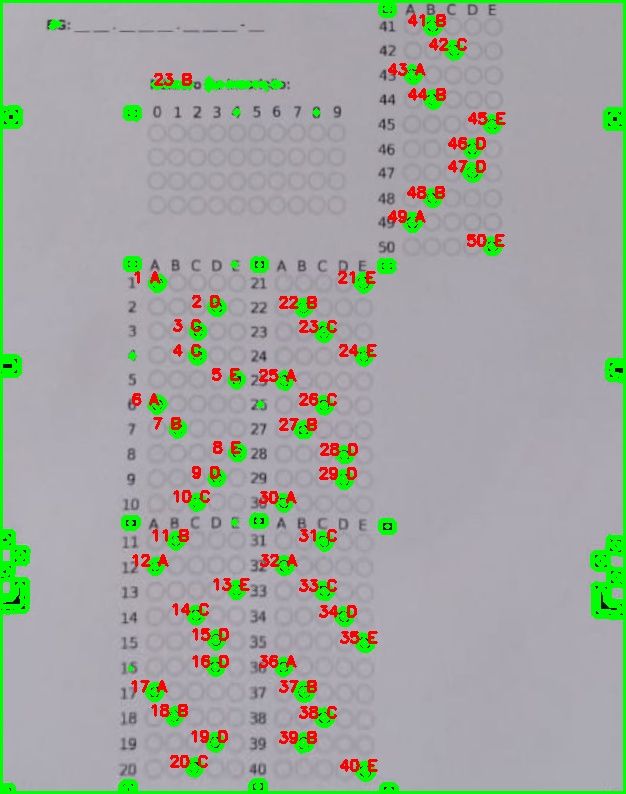
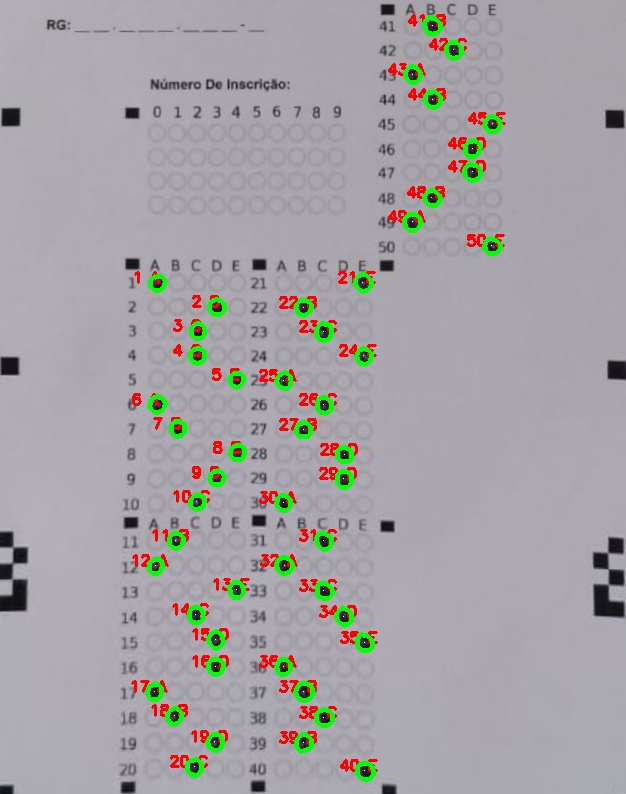
Melhorando contornos e janela
Adicionado o botão Ajuda e Sobre;
TextBox apresenta mensagens e erros;
Logo do cursinho adicionado;
Botão Parar removido

diff --git a/main.py b/main.py
@@ -14,12 +14,18 @@ from tkinter import messagebox
 from tkinter.ttk import Progressbar
 from tkinter import scrolledtext
 from tkinter import *
+import tkinter as tk
+from tkinter import Menu
 
 #Declarando algumas variáveis globais
 MAX_MATCHES = 5000
 GOOD_MATCH_PERCENT = 0.05
 gabaritoPath = ""
 janela = Tk()
+caixaTexto = None
+pause = False
+btParar = None
+nomeGabarito = []
 
 
 def alignImages(im1, im2):
@@ -45,8 +51,8 @@ def alignImages(im1, im2):
   matches = matches[:numGoodMatches]
 
   # Draw top matches
-  #imMatches = cv2.drawMatches(im1, keypoints1, im2, keypoints2, matches, None)
-  #cv2.imwrite("matches.jpg", imMatches)
+  # imMatches = cv2.drawMatches(im1, keypoints1, im2, keypoints2, matches, None)
+  # cv2.imwrite("matches.jpg", imMatches)
   
   # Extract location of good matches
   points1 = np.zeros((len(matches), 2), dtype=np.float32)
@@ -84,12 +90,11 @@ def getAnswer(contours, imReg):
   listNumbers = []
   RA = ''
 
-  #cv2.drawContours(imReg, contours, -1, (0,255,0), 3)
+
   #Take the central pixel of the contours and compare to the lists
   for c in contours:
     #Only takes the central point of contours who have 100<Area<350
-    if 50<cv2.contourArea(c)<350:
-
+    if 100<cv2.contourArea(c)<300:
       # calculate moments for each contour
       M = cv2.moments(c)
  
@@ -108,6 +113,7 @@ def getAnswer(contours, imReg):
               cv2.circle(imReg, (cX, cY), 3, (255, 255, 255), -15)
               cv2.putText(imReg, str(x), (cX - 25, cY),cv2.FONT_HERSHEY_SIMPLEX, 0.5, (0, 0, 255), 2)
               controladorRA = True
+              cv2.drawContours(imReg, c, -1, (0,255,0), 3)
 
       #Verifica as questões
       if (controladorRA == False):
@@ -137,6 +143,7 @@ def getAnswer(contours, imReg):
                 listRet.append(letra)
                 listNumbers.append(numero)
                 cv2.putText(imReg, numero+' '+letra, (cX - 25, cY),cv2.FONT_HERSHEY_SIMPLEX, 0.5, (0, 0, 255), 2)
+                cv2.drawContours(imReg, c, -1, (0,255,0), 3)
 
  
   #Ordena as listas que contem os numeros e as letras
@@ -199,6 +206,10 @@ def compareTemplate(test, template):
 
 #Função main principal
 def iniciar():
+  #Limpa a caixa de texto
+  caixaTexto.delete(1.0,tk.END)
+  pause = False
+
   #Desabilita o botao Iniciar
   btIniciar['state'] = 'disable'
 
@@ -212,9 +223,8 @@ def iniciar():
   imReference2 = cv2.imread(refFilename, cv2.IMREAD_COLOR)
 
   
-  if (True):
+  try:
     # Utiliza a imagem que o usuário selecionou.
-    print(gabaritoPath)
     im = cv2.imread(gabaritoPath, cv2.IMREAD_COLOR)
     
     #Alinha a imagem do gabarito com a imagem base
@@ -249,7 +259,13 @@ def iniciar():
     ctd = 1
     #Varre todos os arquivos encontrados na pasta ProvasParaCorrigir
     for f in files:
-      if(True):
+      while (pause):
+        aux = 1
+        if i:
+          caixaTexto.insert(tk.INSERT,'Programa pausado!\n','error')
+          aux = 0
+
+      try:
         #Verifica se o arquivo realmente existe, e caso não seja uma imagem
         #informa o erro ao usuario e continua corrigindo as demais provas
         fh = open("ProvasParaCorrigir/"+f, 'r')
@@ -258,14 +274,14 @@ def iniciar():
         #Lê a prova
         imReg, h = alignImages(im, imReference)
         imReg, h = alignImages(imReg, imReference2)
+
         #Aplica o blur para remover os ruidos e encontra os contornos da prova
         blurred = cv2.pyrMeanShiftFiltering(imReg,10,100)
         gray = cv2.cvtColor(blurred,cv2.COLOR_BGR2GRAY)
         threshold = cv2.adaptiveThreshold(gray,255,cv2.ADAPTIVE_THRESH_GAUSSIAN_C,cv2.THRESH_BINARY,15,8)
         contours,_ = cv2.findContours(threshold,cv2.RETR_LIST,cv2.CHAIN_APPROX_NONE)
-        cv2.drawContours(imReg, contours, -1, (0,255,0), 3)
-        # cv2.imshow("teste",imReg)
-        # cv2.waitKey(0)
+        # cv2.drawContours(imReg, contours, -1, (0,255,0), 3)
+
 
         #Retorna a lista com as letras assinaladas pelo aluno da prova
         prova, RA = getAnswer(contours, imReg)
@@ -312,16 +328,21 @@ def iniciar():
         row += 2  
 
         #Atualiza os valores da ProgressBar
+        caixaTexto.insert(tk.INSERT,'Corrigido '+f+"\n")
+        caixaTexto.see(tk.END)
         progressBar['value'] = (ctd*100)/len(files)
         janela.update_idletasks()
-      #except:
-        # progressBar['value'] = (ctd*100)/len(files)
-        # janela.update_idletasks()
+      except:
+        caixaTexto.insert(tk.INSERT,'Erro ao abrir o arquivo '+f+". Verifique a extensão\n",'error')
+        progressBar['value'] = (ctd*100)/len(files)
+        janela.update_idletasks()
       ctd+=1 
     workbook.close()
+    caixaTexto.insert(tk.INSERT,'Todas as provas foram corrigidas!\n','done')
     
-  #except:
-    #print("O arquivo fornecido não foi encontrado. Verifique se o mesmo existe e se está na extensão correta!")
+  except:
+    caixaTexto.insert(tk.INSERT,'Não foi possível carregar o gabarito selecionado! Verifique a extensão '
+    'e integridade do arquivo!\n','error')
   btIniciar['state'] = 'normal'
 
 
@@ -333,15 +354,54 @@ def getGabaritoPath ():
       (("jpeg files","*.jpg"),("all files","*.*")))
 
   global gabaritoPath 
+  global nomeGabarito
   gabaritoPath = str(janela.filename)
   btIniciar['state'] = 'normal'
-  lblGabarito['text'] = 'Gabarito selecionado:\n'+gabaritoPath
+  i = len(gabaritoPath)-1
+  while (gabaritoPath[i] != '\'' and gabaritoPath[i] != '/'):
+    nomeGabarito.append(gabaritoPath[i])
+    i -= 1
+  nomeGabarito = nomeGabarito[::-1]
+  lblGabarito['text'] = 'Gabarito selecionado:\n'+''.join(nomeGabarito)
+
+def pausar ():
+  global pause
+  if pause:
+    pause = False
+    btParar['text'] = 'Pausar'
+  else:
+    pause = True
+    btParar['text'] = 'Retomar'
+
+def ajuda ():
+  caixaTexto.delete(1.0,tk.END)
+  caixaTexto.insert(tk.INSERT,'Ao iniciar o programa pela primeira vez será criado duas pastas, a "ProvasParaCorrigir" e '
+                    '"ProvasCorrigidas". Dentro da pasta ProvasParaCorrigir você deverá inserir todas as fotos das provas '
+                    'que você deseja corrigir. Vale ressaltar que embora o programa funcione com fotos tiradas pelo celular, '
+                    'dependendo de como a mesma seja tirada, da iluminação, angulação e qualidade da foto, o programa '
+                    'pode ter erros na hora da correção. Escanear as provas é a forma mais segura de fazer a correção!\n'
+                    'Após abrir a janela principal, aperte o botão "Selecionar Gabarito" para selecionar a imagem que será '
+                    'utilizada como base para a correção das demais. Os mesmos princípios em relação a qualidade da imagem '
+                    'citados a cima valem para esta foto.\n'
+                    'Com o gabarito selecionado basta apertar no botão "Iniciar" para começar a correção! Eventuais erros serão '
+                    'informados nesta caixa de texto.\n'
+                    'Ao finalizar a correção, será criado na pasta "ProvasCorrigidas" uma foto de cada prova corrigida e como '
+                    'o programa as corrigiu de forma a facilitar identificação de erros de correção. Também será criado um arquivo '
+                    'Excel com os resultados de cada prova!\n')
+  caixaTexto.insert(tk.INSERT,'APROVEITE!! =)','done')
+
+def sobre ():
+  caixaTexto.delete(1.0,tk.END)
+  caixaTexto.insert(tk.INSERT,'Este programa foi criado sem fins comerciais com a finalidade de colaborar com a correção das '
+                    'provas do cursinho Principia da Unesp Bauru.\n\n')
+  caixaTexto.insert(tk.INSERT,'Criado pela equipe Beta do Projetos RAS - IEEE - Unesp Bauru:\n Pedro Caldato\n Leonardo Moreno\n Bruno Yudy\n \n'
+                    'Com a supervisão de:\n Vitor Vecina\n','done')
 
 
 ##############################################################################################################################
 
 #definindo a janela principal
-janela.geometry("800x600")
+janela.geometry("675x600")
 janela["bg"]= "gray"
 janela.title("Corretor de gabarito")
 janela.resizable(0,0)
@@ -357,23 +417,37 @@ if (not os.path.isdir('./ProvasCorrigidas')):
 
 
 #Definindo os botões
-btGabarito=Button(janela, width=15, height=4, text="Selecione o\n gabarito", command=getGabaritoPath,)
+btGabarito=Button(janela, width=15, height=4, text="Selecinar\n Gabarito", command=getGabaritoPath,)
 btGabarito.place(x=50, y=50)
 
 lblGabarito = Label(janela, text="Gabarito selecionado:", font=("Arial Bold", 10),bg='gray')
-lblGabarito.place(x=50, y=140)
+lblGabarito.place(x=250, y=70)
 
-btIniciar=Button(janela, width=10, height=3, text="Iniciar", command=iniciar, state='disable')
-btIniciar.place(x=500, y=50)
+btIniciar=Button(janela, width=15, height=4, text="Iniciar", command=iniciar, state='disable')
+btIniciar.place(x=450, y=50)
 
-btParar=Button(janela, width=10, height=3, text="Parar")
-btParar.place(x=500, y=150)
+# btParar=Button(janela, width=15, height=4, text="Parar", command=pausar)
+# btParar.place(x=450, y=50)
 
-progressBar = Progressbar(janela, length=550)
-progressBar.place(x=50, y= 250)
+progressBar = Progressbar(janela, length=547)
+progressBar.place(x=50, y= 200)
 
-caixaTexto = scrolledtext.ScrolledText(janela,width=68,height=10)
-caixaTexto.place(x=50, y= 300)
+caixaTexto = scrolledtext.ScrolledText(janela,width=66,height=10)
+caixaTexto.place(x=50, y= 250)
+caixaTexto.tag_config('error', foreground='red')
+caixaTexto.tag_config('done', foreground='green')
+
+menu = Menu(janela)
+menu.add_command(label='Ajuda', command=ajuda)
+menu.add_command(label='Sobre', command=sobre)
+janela.config(menu=menu)
+
+canvas = Canvas(janela, width = 365, height = 138)      
+canvas.pack()      
+img = PhotoImage(file="principia.png")      
+canvas.create_image(0,0, anchor=tk.NW, image=img)      
+canvas.place(x=140,y=440)
+mainloop()    
 
 
 janela.mainloop()

diff --git a/testandoCoisasDoPy.py b/testandoCoisasDoPy.py
@@ -1,28 +1,31 @@
 from tkinter import *
-from tkinter import ttk
-import time
+import tkinter.scrolledtext as tkst
 
-MAX = 30
-
-root = Tk()
-root.geometry('{}x{}'.format(400, 100))
-progress_var = DoubleVar() #here you have ints but when calc. %'s usually floats
-theLabel = Label(root, text="Sample text to show")
-theLabel.pack()
-progressbar = ttk.Progressbar(root, variable=progress_var, maximum=MAX)
-progressbar.pack(fill=X, expand=1)
-
-
-def loop_function():
-
-    k = 0
-    while k <= MAX:
-    ### some work to be done
-        progress_var.set(k)
-        k += 1
-        time.sleep(0.02)
-        root.update_idletasks()
-    root.after(100, loop_function)
-
-loop_function()
-root.mainloop()
+win = Tk()
+frame1 = win.Frame(
+    master = win,
+    bg = '#808000'
+)
+frame1.pack(fill='both', expand='yes')
+editArea = tkst.ScrolledText(
+    master = frame1,
+    wrap   = tk.WORD,
+    width  = 20,
+    height = 10
+)
+# Don't use widget.place(), use pack or grid instead, since
+# They behave better on scaling the window -- and you don't
+# have to calculate it manually!
+editArea.pack(padx=10, pady=10, fill=tk.BOTH, expand=True)
+# Adding some text, to see if scroll is working as we expect it
+editArea.insert(Tk.INSERT,
+"""\
+Integer posuere erat a ante venenatis dapibus.
+Posuere velit aliquet.
+Aenean eu leo quam. Pellentesque ornare sem.
+Lacinia quam venenatis vestibulum.
+Nulla vitae elit libero, a pharetra augue.
+Cum sociis natoque penatibus et magnis dis.
+Parturient montes, nascetur ridiculus mus.
+""")
+win.mainloop()
